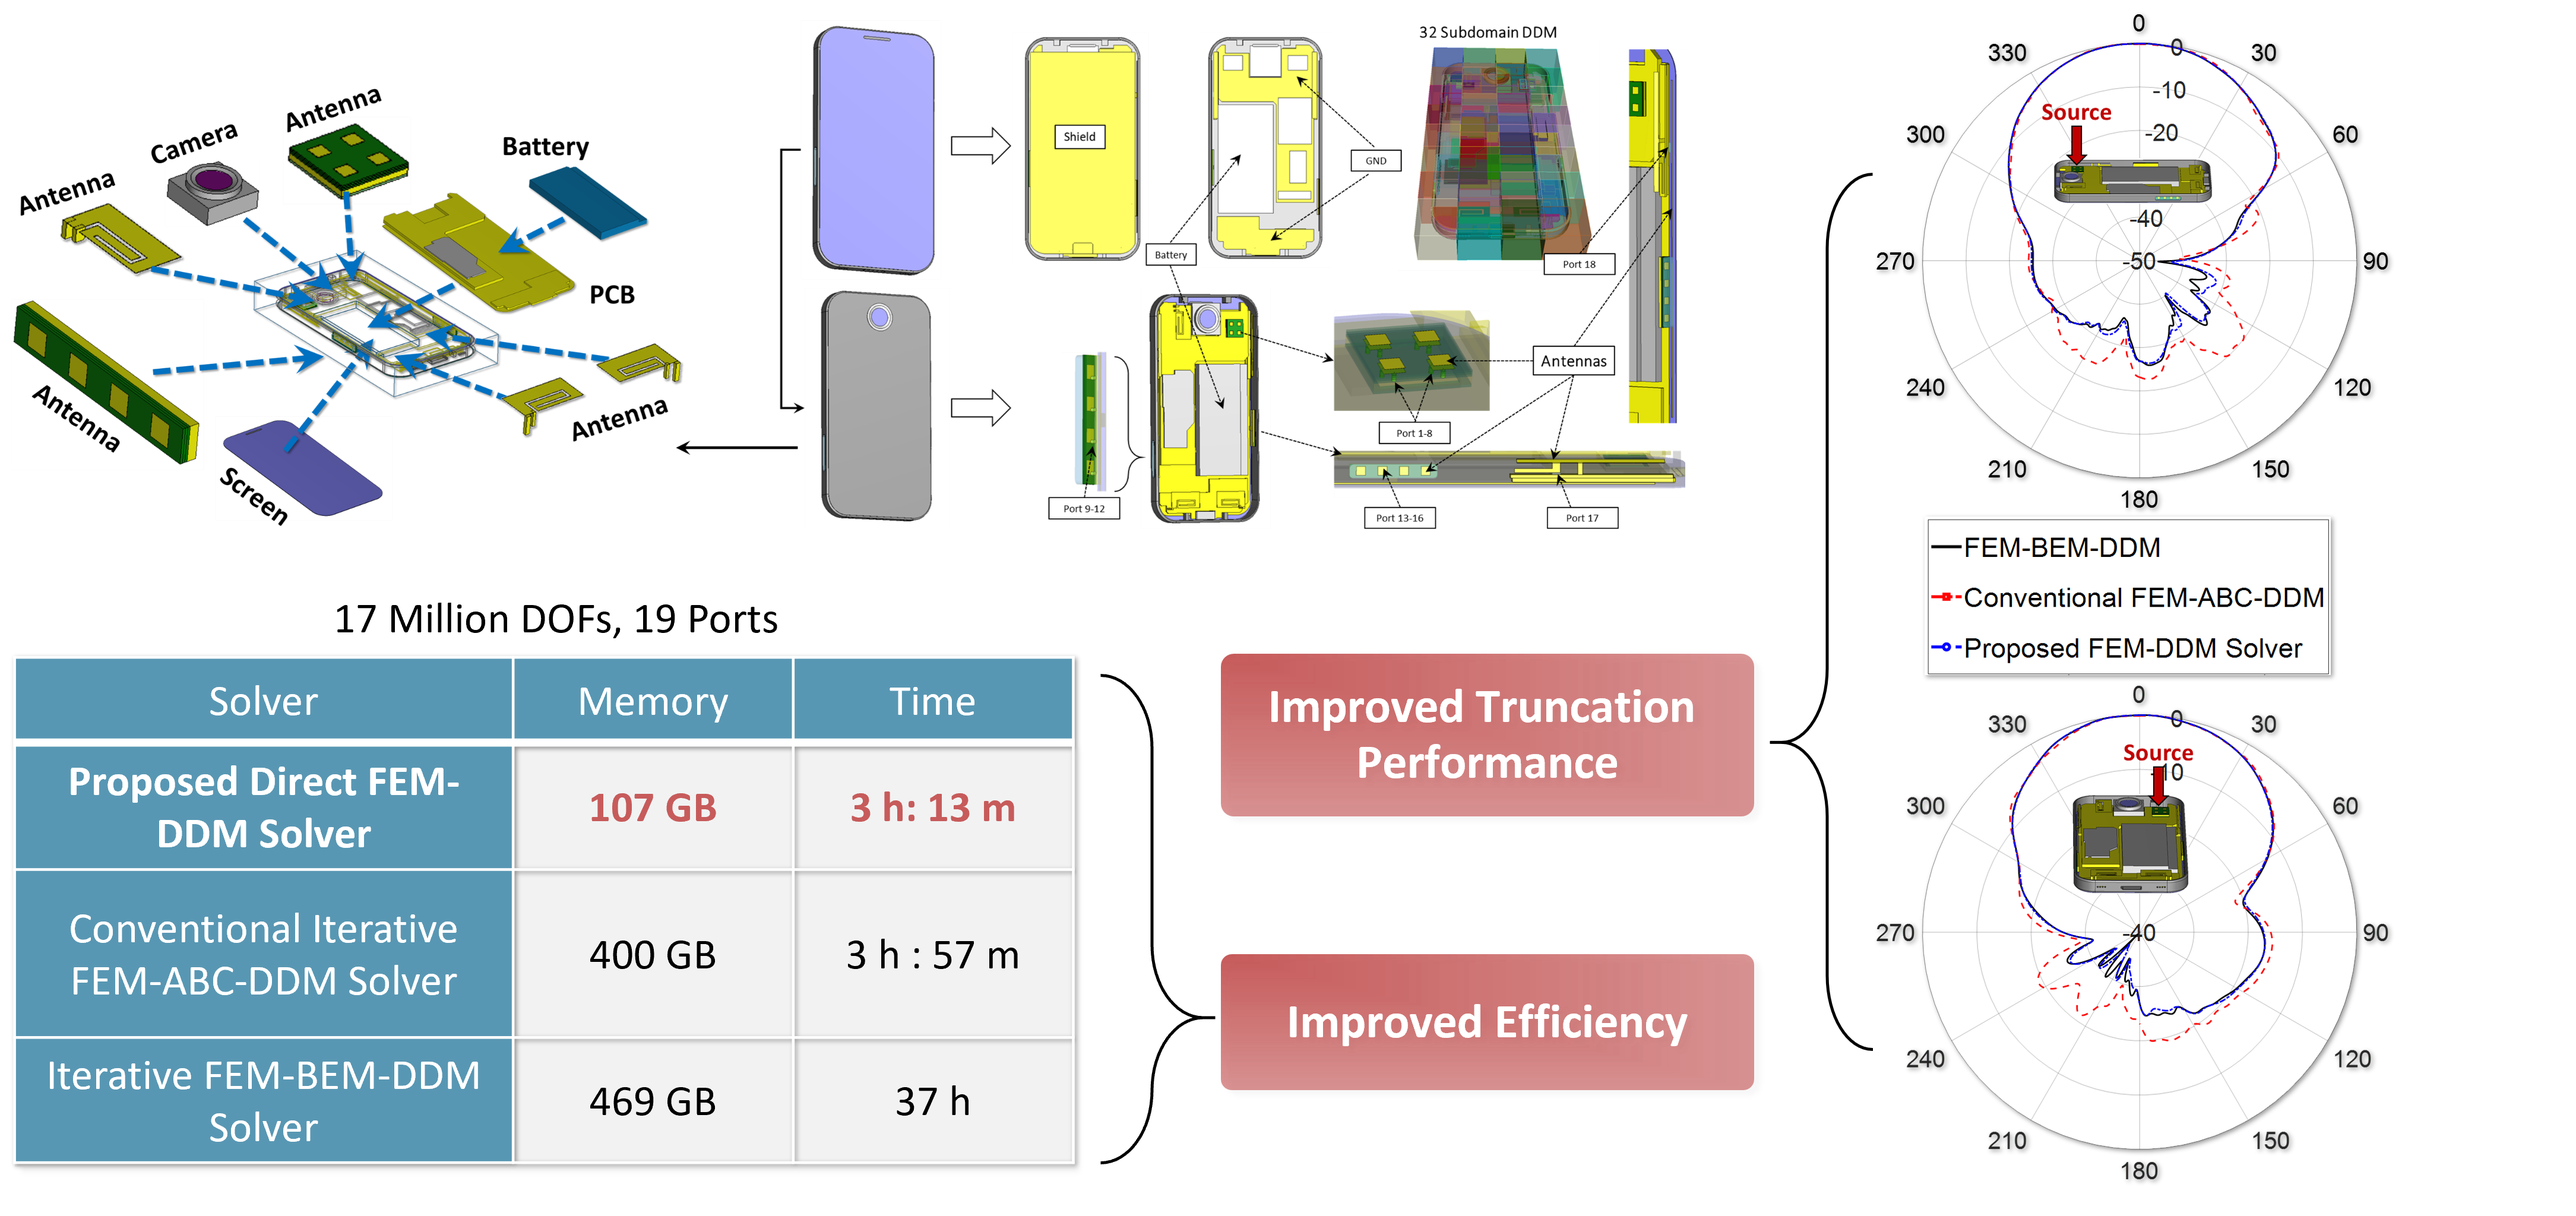
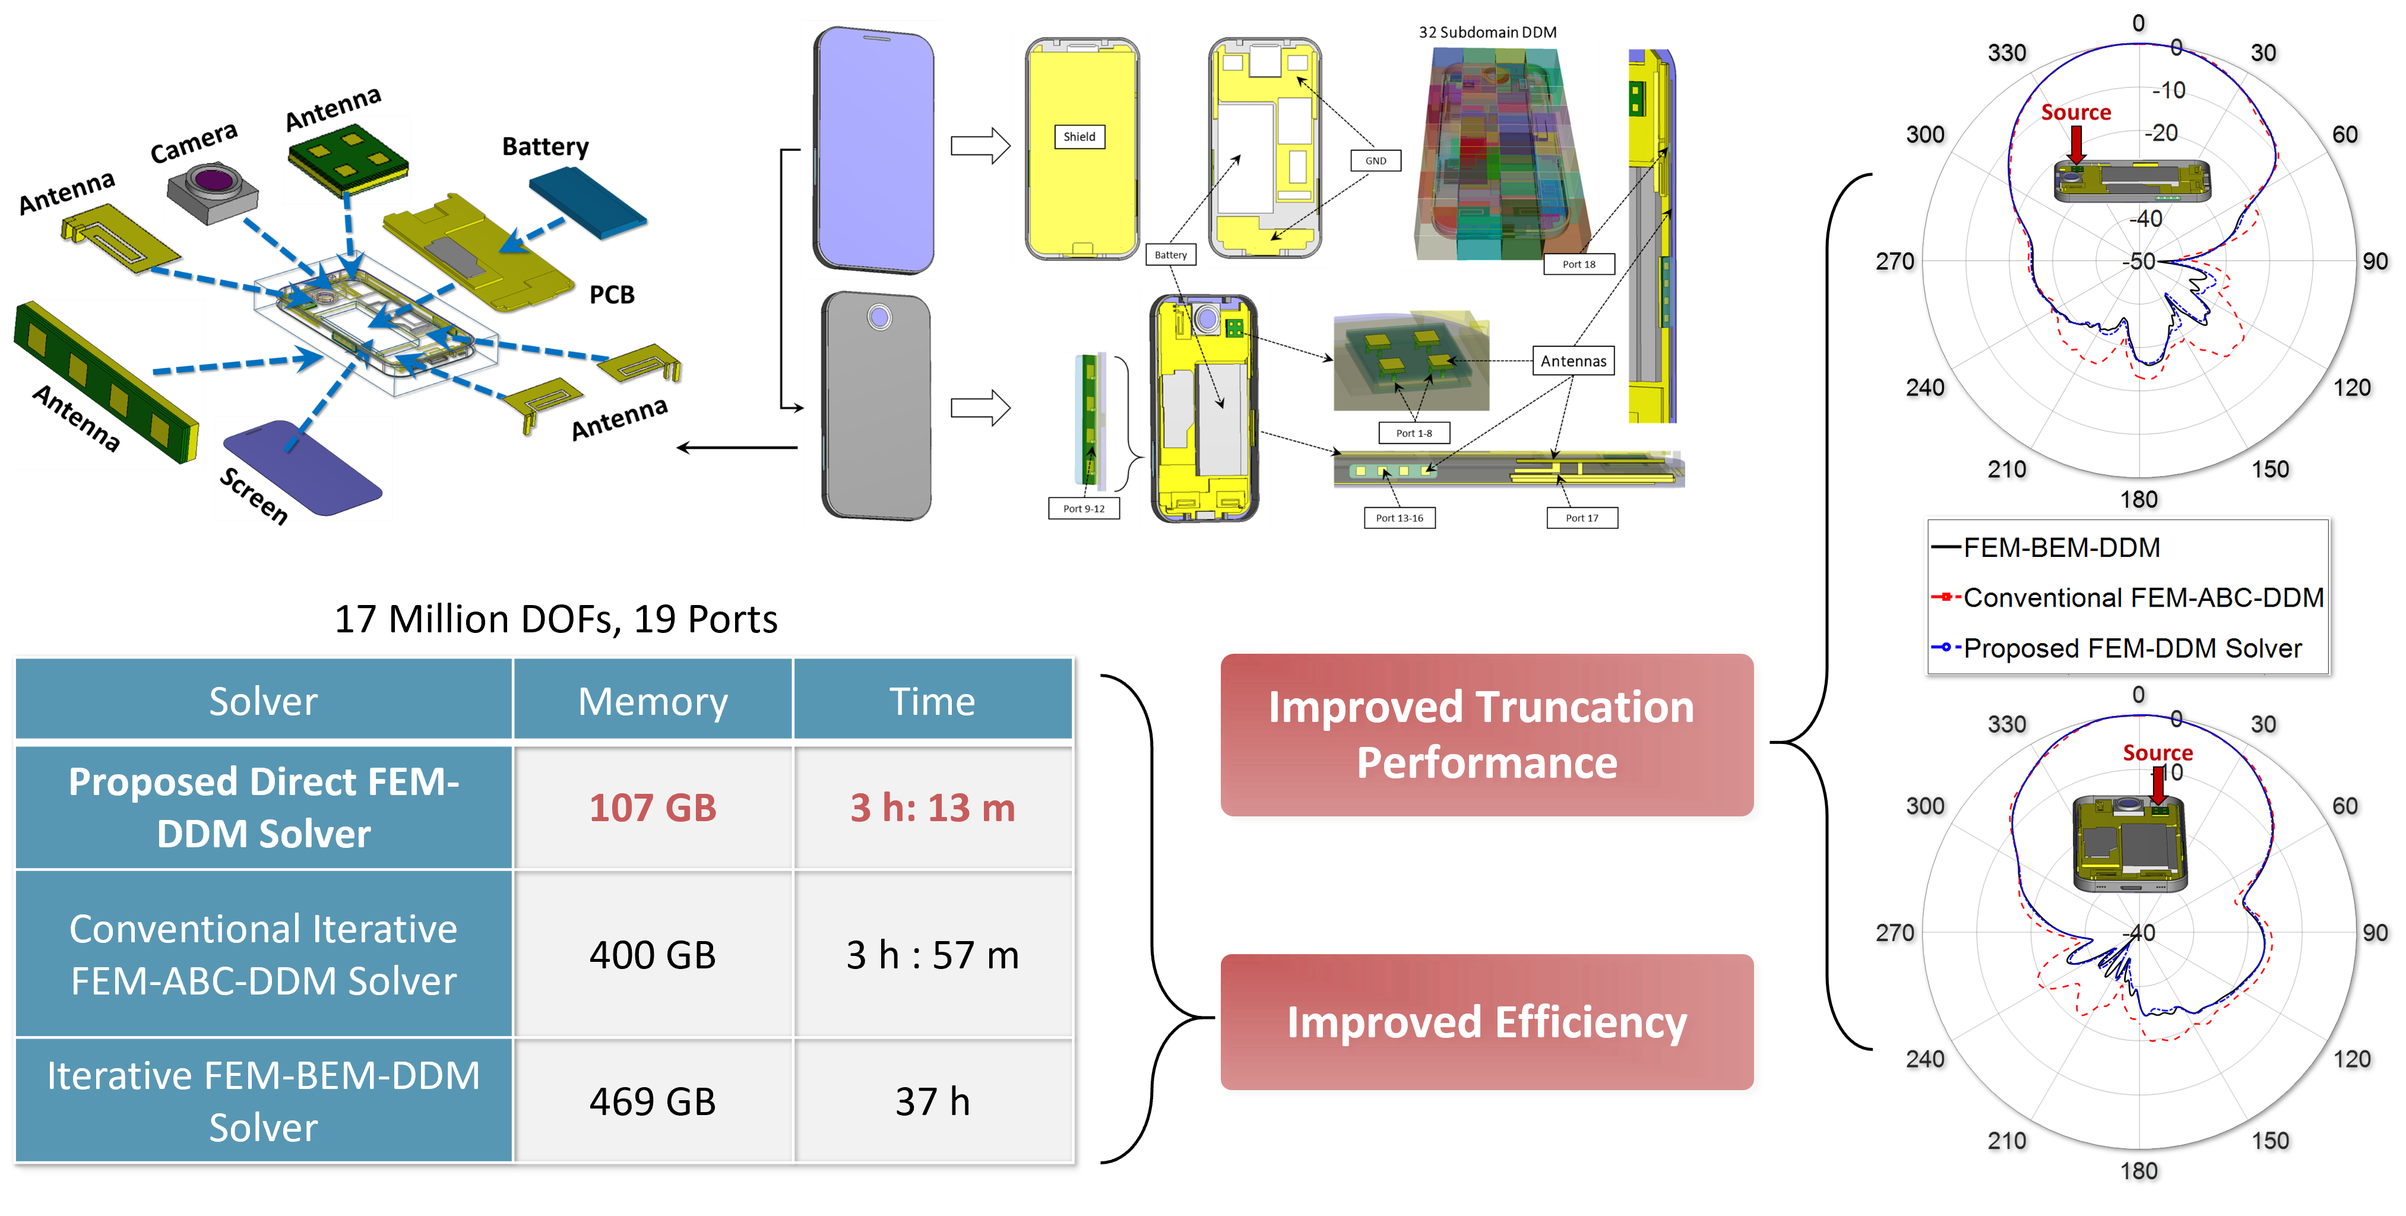
update pages

diff --git a/_projects/project_5_ic.md b/_projects/project_5_ic.md
@@ -20,8 +20,8 @@ Electronic systems naturally contain multiple conducting and dielectric layers, 
 
 We employ [nonconformal domain decomposition method](/projects/ddm/) to separate complex electronic structures into independently constructed computational regions. For multilayer circuits, individual layers can be generated directly from their design data and further partitioned into smaller building blocks. Each subdomain can then be meshed independently, while electromagnetic interactions between neighboring regions are enforced through nonconformal interfaces.
 
-<div class="row align-items-center">
-    <div class="col-sm mt-3 mt-md-0">
+<div class="row align-items-center justify-content-sm-center">
+    <div class="col-sm-11 mt-3 mt-md-0">
         {% include figure.liquid 
             path="assets/img/projects/ic/ic_pcb_model.png"
             class="img-fluid rounded z-depth-0"
@@ -36,7 +36,7 @@ We employ [nonconformal domain decomposition method](/projects/ddm/) to separate
 Such a decomposition scheme provides considerable efficiency for practical PCB modeling. Different layers and local regions can employ mesh resolutions appropriate to their geometrical features.
 
 <div class="row align-items-center justify-content-sm-center">
-    <div class="col-sm-11 mt-3 mt-md-0">
+    <div class="col-sm-10 mt-3 mt-md-0">
         {% include figure.liquid 
             path="assets/img/projects/ic/ic_pcb_eg.png"
             class="img-fluid rounded z-depth-0"
@@ -56,7 +56,7 @@ The modeling difficulty becomes greater when electronic systems contain strongly
 Our [embedded domain decomposition method](/projects/ddm/) is suitable to handle such problems. Selected components can be modeled with independent geometries and meshes and subsequently embedded into larger computational domains. Components can consequently be refined, replaced, or modified without rebuilding the complete surrounding discretization.
 
 <div class="row align-items-center justify-content-sm-center">
-    <div class="col-sm-11 mt-3 mt-md-0">
+    <div class="col-sm-10 mt-3 mt-md-0">
         {% include figure.liquid 
             path="assets/img/projects/ic/ic_embed_ddm.png"
             class="img-fluid rounded z-depth-0"
@@ -82,7 +82,7 @@ For complete electronic systems, accurate radiation and EMC analysis requires th
 
 
 <div class="row align-items-center justify-content-sm-center">
-    <div class="col-sm-11 mt-3 mt-md-0">
+    <div class="col-sm-10 mt-3 mt-md-0">
         {% include figure.liquid 
             path="assets/img/projects/ic/ic_cellphone.png"
             class="img-fluid rounded z-depth-0"
